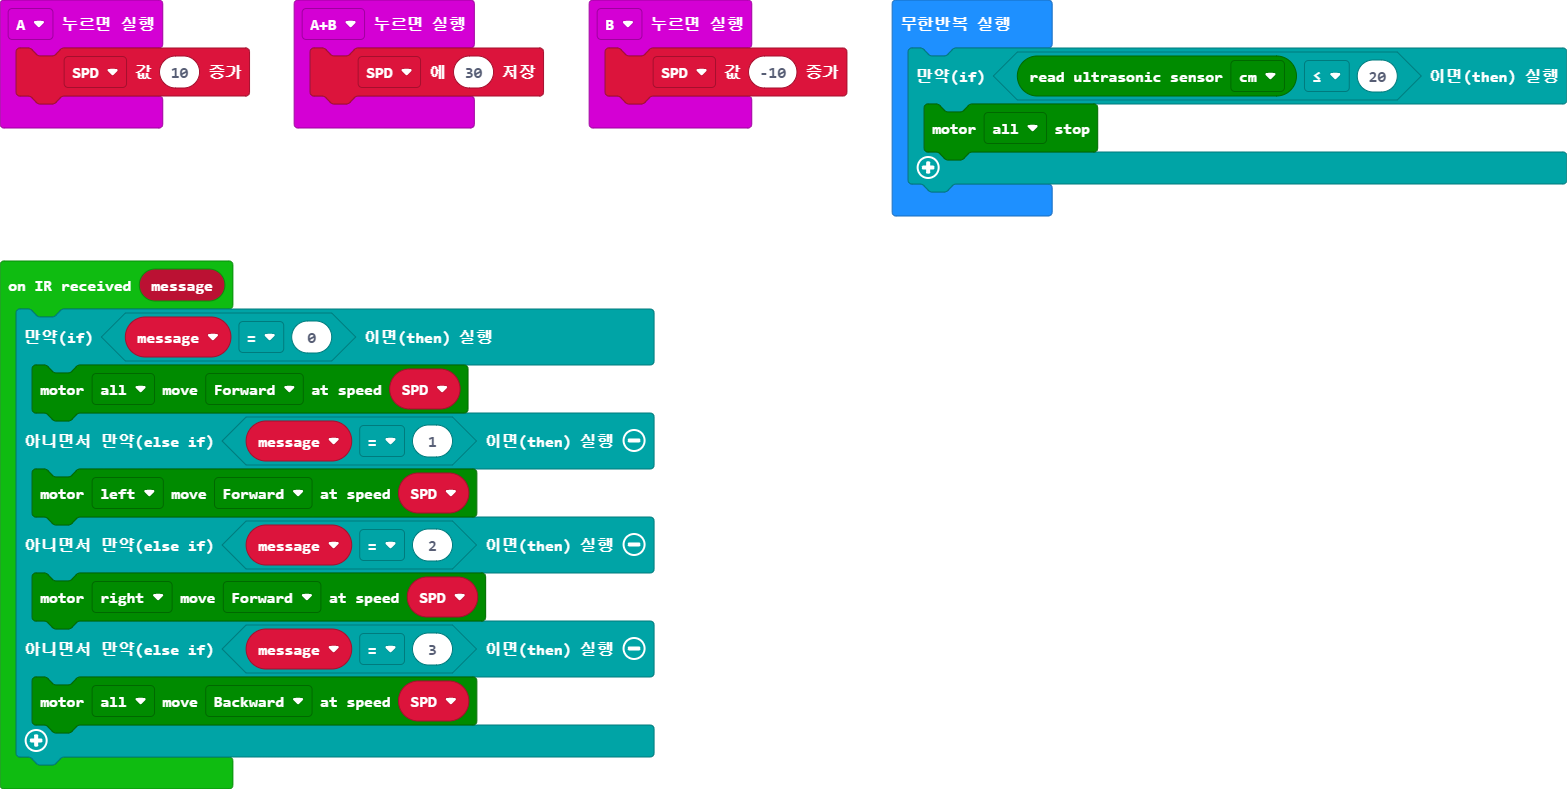
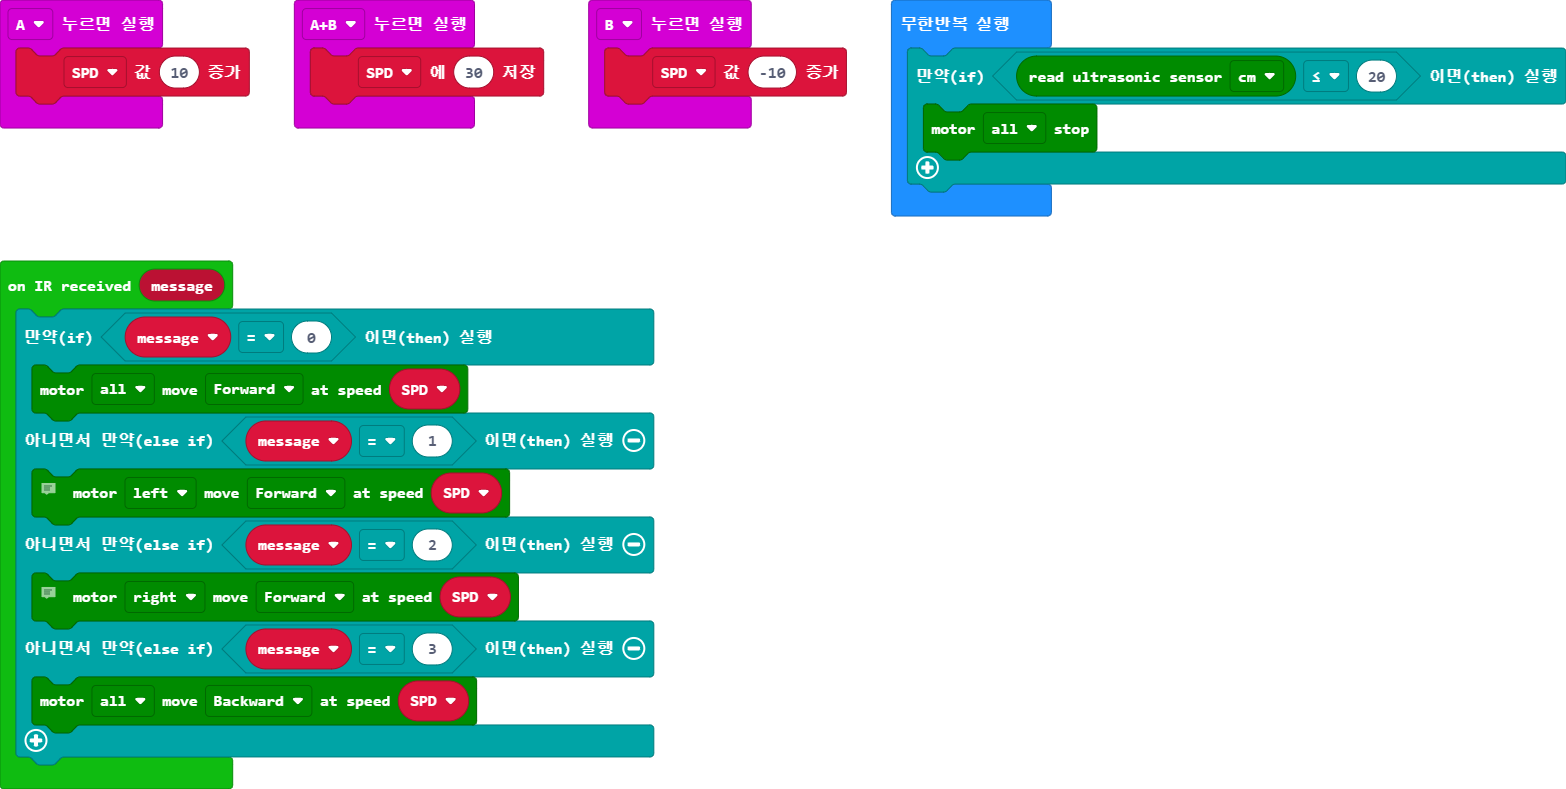
main.blocks, main.ts 업데이트하기

diff --git a/main.ts b/main.ts
@@ -6,8 +6,10 @@ IR.IR_callbackUser(function (message) {
     if (message == 0) {
         maqueen.motorRun(maqueen.Motors.All, maqueen.Dir.CW, SPD)
     } else if (message == 1) {
+        // turn right
         maqueen.motorRun(maqueen.Motors.M1, maqueen.Dir.CW, SPD)
     } else if (message == 2) {
+        // turn left
         maqueen.motorRun(maqueen.Motors.M2, maqueen.Dir.CW, SPD)
     } else if (message == 3) {
         maqueen.motorRun(maqueen.Motors.All, maqueen.Dir.CCW, SPD)
